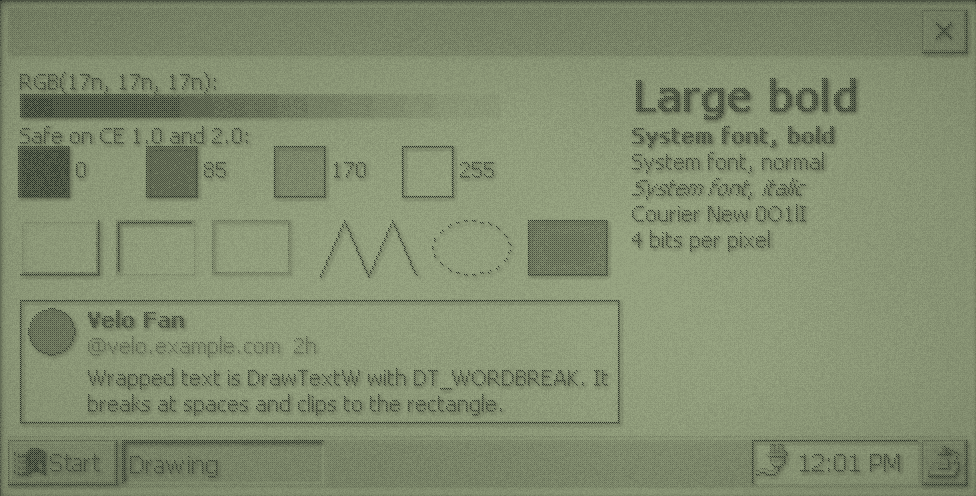
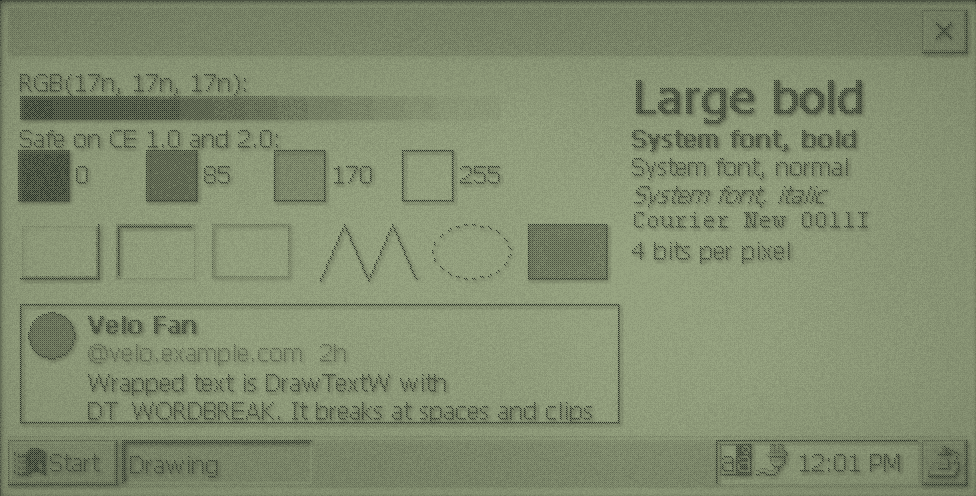
Write subsystem 9 with the CE version in the PE, as Microsoft's CE 2.0 toolkit does

diff --git a/docs/primer/4-layout.html b/docs/primer/4-layout.html
@@ -47,7 +47,7 @@
 <li><strong>A status bar underneath</strong>, when there's something to report.</li>
 <li><strong>Size everything in <code>WM_SIZE</code></strong>, from the client rectangle minus the command bar's and status bar's heights. Don't hard-code 480.</li>
 <li><strong>Use system colours</strong> (<code>GetSysColor</code>, <code>GetSysColorBrush</code>) for anything that should look like the rest of CE, and the four safe greys below for everything else you draw.</li>
-<li><strong>Make tap targets at least 20 pixels tall.</strong> A standard dialog button, 14 dialog units, is 22 pixels tall on the Velo. A stylus is precise, but a thumb on the move isn't.</li>
+<li><strong>Make tap targets at least 20 pixels tall.</strong> A standard dialog button, 14 dialog units, is 22 pixels tall on CE 1.0 and 24 on CE 2.0. A stylus is precise, but a thumb on the move isn't.</li>
 </ul>
 <p>The examples below are in <code>docs/primer/examples</code>. Each one builds for both CE versions and starts in the state shown.</p>
 </section>
@@ -257,7 +257,7 @@
     <span class="keyword">DEFPUSHBUTTON</span> <span class="string">"OK"</span>, <span class="constant">IDOK</span>, <span class="number">122</span>, <span class="number">80</span>, <span class="number">48</span>, <span class="number">14</span>, <span class="constant">WS_TABSTOP</span>
     <span class="keyword">PUSHBUTTON</span> <span class="string">"Cancel"</span>, <span class="constant">IDCANCEL</span>, <span class="number">176</span>, <span class="number">80</span>, <span class="number">48</span>, <span class="number">14</span>, <span class="constant">WS_TABSTOP</span>
 <span class="keyword">END</span></code></pre>
-<p>Positions are in <em>dialog units</em>, which scale with the dialog font: this 230-unit-wide dialog is 351 pixels wide on the Velo, frame included, about one and a half pixels per unit. <code>&amp;</code> in a label underlines the next letter. <code>WS_GROUP</code> starts a group of radio buttons, which ends at the next control with <code>WS_GROUP</code>.</p>
+<p>Positions are in <em>dialog units</em>, which scale with the dialog font: this 230-unit-wide dialog is 351 pixels wide on CE 1.0 and 408 on CE 2.0, frame included, about one and a half and 1.8 pixels per unit. <code>&amp;</code> in a label underlines the next letter. <code>WS_GROUP</code> starts a group of radio buttons, which ends at the next control with <code>WS_GROUP</code>.</p>
 <aside>
 <strong>Velo Tip</strong>
 <p>On CE a group box paints its whole inside. Controls created after it are underneath and disappear, so list the group box <em>after</em> the controls it surrounds. The same goes for a tab control in recipe 4. Siblings stack in the order they're created, first on top.</p>
@@ -484,7 +484,7 @@
 <p>Make fonts once at startup, keep them, and delete them at exit. <code>GetTextMetricsW</code> gives a font's line height, and <code>DrawTextW</code> with <code>DT_CALCRECT</code> measures wrapped text without drawing it, which is how you lay out a list of variable-height items.</p>
 <aside>
 <strong>Velo Tip</strong>
-<p>CE 1.0 draws italic badly, and on CE 2.0 "Courier New" quietly falls back to the proportional system font. Use bold and size for emphasis, and don't count on a fixed-pitch font on CE 2.0.</p>
+<p>CE 1.0 draws italic badly. Use bold and size for emphasis.</p>
 </aside>
 <h3>No flicker</h3>
 <p>Drawing a busy window piece by piece makes it flash. Draw into a bitmap the size of the window, then copy it to the screen in one go:</p>

diff --git a/docs/primer/src/4-layout.html b/docs/primer/src/4-layout.html
@@ -7,7 +7,7 @@
 <li><strong>A status bar underneath</strong>, when there's something to report.</li>
 <li><strong>Size everything in <code>WM_SIZE</code></strong>, from the client rectangle minus the command bar's and status bar's heights. Don't hard-code 480.</li>
 <li><strong>Use system colours</strong> (<code>GetSysColor</code>, <code>GetSysColorBrush</code>) for anything that should look like the rest of CE, and the four safe greys below for everything else you draw.</li>
-<li><strong>Make tap targets at least 20 pixels tall.</strong> A standard dialog button, 14 dialog units, is 22 pixels tall on the Velo. A stylus is precise, but a thumb on the move isn't.</li>
+<li><strong>Make tap targets at least 20 pixels tall.</strong> A standard dialog button, 14 dialog units, is 22 pixels tall on CE 1.0 and 24 on CE 2.0. A stylus is precise, but a thumb on the move isn't.</li>
 </ul>
 <p>The examples below are in <code>docs/primer/examples</code>. Each one builds for both CE versions and starts in the state shown.</p>
 </section>
@@ -78,7 +78,7 @@
 <figcaption><code>form</code>: a modal dialog with no main window behind it.</figcaption>
 </figure>
 <pre data-file="docs/primer/examples/form/form.rc"><code>@source docs/primer/examples/form/form.rc</code></pre>
-<p>Positions are in <em>dialog units</em>, which scale with the dialog font: this 230-unit-wide dialog is 351 pixels wide on the Velo, frame included, about one and a half pixels per unit. <code>&amp;</code> in a label underlines the next letter. <code>WS_GROUP</code> starts a group of radio buttons, which ends at the next control with <code>WS_GROUP</code>.</p>
+<p>Positions are in <em>dialog units</em>, which scale with the dialog font: this 230-unit-wide dialog is 351 pixels wide on CE 1.0 and 408 on CE 2.0, frame included, about one and a half and 1.8 pixels per unit. <code>&amp;</code> in a label underlines the next letter. <code>WS_GROUP</code> starts a group of radio buttons, which ends at the next control with <code>WS_GROUP</code>.</p>
 <aside>
 <strong>Velo Tip</strong>
 <p>On CE a group box paints its whole inside. Controls created after it are underneath and disappear, so list the group box <em>after</em> the controls it surrounds. The same goes for a tab control in recipe 4. Siblings stack in the order they're created, first on top.</p>
@@ -172,7 +172,7 @@
 <p>Make fonts once at startup, keep them, and delete them at exit. <code>GetTextMetricsW</code> gives a font's line height, and <code>DrawTextW</code> with <code>DT_CALCRECT</code> measures wrapped text without drawing it, which is how you lay out a list of variable-height items.</p>
 <aside>
 <strong>Velo Tip</strong>
-<p>CE 1.0 draws italic badly, and on CE 2.0 "Courier New" quietly falls back to the proportional system font. Use bold and size for emphasis, and don't count on a fixed-pitch font on CE 2.0.</p>
+<p>CE 1.0 draws italic badly. Use bold and size for emphasis.</p>
 </aside>
 <h3>No flicker</h3>
 <p>Drawing a busy window piece by piece makes it flash. Draw into a bitmap the size of the window, then copy it to the screen in one go:</p>

diff --git a/docs/primer/9-reference.html b/docs/primer/9-reference.html
@@ -144,7 +144,7 @@
 <tr><td>Tap coordinates are huge numbers</td><td><code>LOWORD</code> of a negative coordinate</td><td>Cast through <code>short</code></td></tr>
 <tr><td>Nothing happens after <code>LB_SETCURSEL</code> or similar</td><td>Notifications only follow what the user does</td><td>Update dependent state yourself</td></tr>
 <tr><td>Waiting for a started program returns at once on CE 1.0</td><td>A new process's handle reports finished there</td><td>Poll for its window instead</td></tr>
-<tr><td>Italic text looks broken on CE 1.0, Courier New isn't fixed-pitch on CE 2.0</td><td>The ROMs' fonts</td><td>Use bold and size for emphasis</td></tr>
+<tr><td>Italic text looks broken on CE 1.0</td><td>The CE 1.0 ROM's fonts</td><td>Use bold and size for emphasis</td></tr>
 <tr><td>HTTPS fails</td><td>No modern TLS on the Velo</td><td>Plain HTTP through a proxy</td></tr>
 <tr><td><code>SetEvent</code> doesn't link</td><td>CE has no such export: it's an inline function over <code>EventModify</code></td><td>Use the toolchain's <code>windows.h</code></td></tr>
 <tr><td><code>SetWindowLongW(window, GWL_USERDATA, ...)</code> fails on CE 1.0</td><td>CE 1.0 doesn't support <code>GWL_USERDATA</code></td><td>Extra window memory: <code>cbWndExtra</code> and offset 0</td></tr>

diff --git a/docs/primer/src/9-reference.html b/docs/primer/src/9-reference.html
@@ -33,7 +33,7 @@
 <tr><td>Tap coordinates are huge numbers</td><td><code>LOWORD</code> of a negative coordinate</td><td>Cast through <code>short</code></td></tr>
 <tr><td>Nothing happens after <code>LB_SETCURSEL</code> or similar</td><td>Notifications only follow what the user does</td><td>Update dependent state yourself</td></tr>
 <tr><td>Waiting for a started program returns at once on CE 1.0</td><td>A new process's handle reports finished there</td><td>Poll for its window instead</td></tr>
-<tr><td>Italic text looks broken on CE 1.0, Courier New isn't fixed-pitch on CE 2.0</td><td>The ROMs' fonts</td><td>Use bold and size for emphasis</td></tr>
+<tr><td>Italic text looks broken on CE 1.0</td><td>The CE 1.0 ROM's fonts</td><td>Use bold and size for emphasis</td></tr>
 <tr><td>HTTPS fails</td><td>No modern TLS on the Velo</td><td>Plain HTTP through a proxy</td></tr>
 <tr><td><code>SetEvent</code> doesn't link</td><td>CE has no such export: it's an inline function over <code>EventModify</code></td><td>Use the toolchain's <code>windows.h</code></td></tr>
 <tr><td><code>SetWindowLongW(window, GWL_USERDATA, ...)</code> fails on CE 1.0</td><td>CE 1.0 doesn't support <code>GWL_USERDATA</code></td><td>Extra window memory: <code>cbWndExtra</code> and offset 0</td></tr>

diff --git a/tools/mkpe.py b/tools/mkpe.py
@@ -1,7 +1,8 @@
 """
 Linked MIPS ELF (--emit-relocs) to Windows CE 1.0/2.0 PE32.
 
-- Machine 0x166 (MIPS little endian), subsystem 2 version 4.0, as the CE 1.0 SDK wrote.
+- Machine 0x166 (MIPS little endian). Subsystem 9 (Windows CE GUI), version from --ce-version
+  (1.0 or 2.0), as the CE 2.0 toolkit's linker writes for /subsystem:windowsce,<version>.
 - Image base 0x10000, headers 0x400, file alignment 0x200.
 - Sections 4 KB aligned: the R3910 has 4 KB pages only.
 - Sections: .text, .rdata, .data, .idata, then .edata (DLL), .rsrc (icon, .res files), .reloc.
@@ -29,6 +30,7 @@ SHF_ALLOC = 0x2
 RT_ICON = 3
 RT_GROUP_ICON = 14
 DEFAULT_LANGUAGE = 0x409
+IMAGE_SUBSYSTEM_WINDOWS_CE_GUI = 9
 
 
 def align(value, alignment):
@@ -275,7 +277,12 @@ def build_resources(resources, section_rva):
     return bytes(output)
 
 
-def build(elf_path, output_path, exports=None, dll_name=None, resources=None):
+def subsystem_version(ce_version):
+    major, _, minor = ce_version.partition(".")
+    return int(major), int(minor or 0)
+
+
+def build(elf_path, output_path, ce_version, exports=None, dll_name=None, resources=None):
     data, sections, symbols, entry = read_elf(elf_path)
     text_va, text = section_bytes(data, sections[".text"])
     if ".rdata" in sections:
@@ -393,8 +400,8 @@ def build(elf_path, output_path, exports=None, dll_name=None, resources=None):
         0x10B, 3, 0, code_size, initialized_size, 0,
         entry - IMAGE_BASE, text_va - IMAGE_BASE, (rdata_va or data_va) - IMAGE_BASE,
         IMAGE_BASE, SECTION_ALIGNMENT, FILE_ALIGNMENT,
-        4, 0, 0, 0, 4, 0, 0,
-        image_size, HEADERS_SIZE, 0, 2, 0,
+        4, 0, 0, 0, *subsystem_version(ce_version), 0,
+        image_size, HEADERS_SIZE, 0, IMAGE_SUBSYSTEM_WINDOWS_CE_GUI, 0,
         0x10000, 0x1000, 0x100000, 0x1000, 0, 16,
     ) + b"".join(struct.pack("<II", *directory) for directory in directories)
 
@@ -412,6 +419,7 @@ if __name__ == "__main__":
     parser = argparse.ArgumentParser(description="Convert a linked MIPS ELF into a Windows CE PE")
     parser.add_argument("elf")
     parser.add_argument("output")
+    parser.add_argument("--ce-version", required=True, help="Windows CE version the program targets, e.g. 1 or 2")
     parser.add_argument("--exports", help="comma-separated exports, NAME or NAME=SYMBOL; makes a DLL")
     parser.add_argument("--exports-file", help="exports, one per line; makes a DLL")
     parser.add_argument("--icon")
@@ -422,4 +430,4 @@ if __name__ == "__main__":
     resources = icon_resources(arguments.icon) if arguments.icon else []
     for res_path in arguments.resources:
         resources += compiled_resources(res_path)
-    build(arguments.elf, arguments.output, exports or None, dll_name, resources)
+    build(arguments.elf, arguments.output, arguments.ce_version, exports or None, dll_name, resources)

diff --git a/README.md b/README.md
@@ -44,6 +44,7 @@ This gives `build/myapp.exe` and `build/mylib.dll`, with the linked `.elf` besid
 - `velo_add_library(target [EXCLUDE_FROM_ALL] [OUTPUT file.dll] [RESOURCES files...] EXPORTS name[=symbol]... | EXPORTS_FILE file sources...)`: entry point `DllMain`. `EXPORTS_FILE` has one export per line.
 - `RESOURCES`: `.rc` files are compiled with `llvm-rc` and linked into `.rsrc` with the icon. Other files listed (headers, bitmaps) are dependencies. The `.rc` can include `windows.h` and `commctrl.h`. CE has no `DialogBoxParamW`: use `FindResource`, `LoadResource` and `DialogBoxIndirectParamW`.
 - `VELO_CE_VERSION`: `1` (default) or `2`. Sets `_WIN32_WCE` to `100` or `200` and picks the import libraries.
+- The PE says subsystem 9 (Windows CE GUI) with the CE version, 1.0 or 2.0, as Microsoft's CE 2.0 toolkit writes. CE 2.0 treats a program marked 1.0 as a CE 1.0 program, with another system font for client-area text and other font enumeration results. CE 1.0 runs both the same.
 - `CMAKE_BUILD_TYPE` defaults to `MinSizeRel` (`-Os`). `Debug` gives `-O0 -g`.
 
 ## Import libraries
